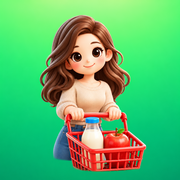
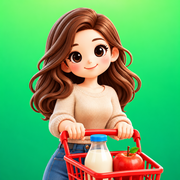
Versione 1.16: Icona definitiva (bordo inferiore corretto)
Claude-Session: https://claude.ai/code/session_01PsEHN9z92aK7YRahLFy1Zj

diff --git a/sw.js b/sw.js
@@ -1,6 +1,6 @@
 // Service worker: tiene l'app disponibile anche senza rete.
 // Per forzare un aggiornamento su tutti i telefoni, cambia il numero di VERSIONE.
-const VERSIONE = 'solo-du-cose-v16';
+const VERSIONE = 'solo-du-cose-v17';
 const FILE = ["./", "index.html", "manifest.webmanifest", "icons/icon-192.png", "icons/icon-512.png", "icons/apple-touch-icon.png", "img/accendino.webp", "img/acciughe.webp", "img/aceto-balsamico.webp", "img/aceto-di-mele.webp", "img/aceto.webp", "img/acetone.webp", "img/acqua-frizzante.webp", "img/acqua-ossigenata.webp", "img/acqua.webp", "img/aglio.webp", "img/agnello.webp", "img/albicocche.webp", "img/alcol-denaturato.webp", "img/ali-di-pollo.webp", "img/amaretti.webp", "img/amaro.webp", "img/amido-di-mais.webp", "img/ammorbidente.webp", "img/anacardi.webp", "img/ananas.webp", "img/anguria.webp", "img/anticalcare.webp", "img/antidolorifico.webp", "img/antiparassitario.webp", "img/antizanzare.webp", "img/aperitivo.webp", "img/arachidi.webp", "img/arancia.webp", "img/aranciata.webp", "img/arancini-surgelati.webp", "img/arrosto.webp", "img/asiago.webp", "img/asparagi.webp", "img/assorbenti.webp", "img/avocado.webp", "img/baccala.webp", "img/bagel.webp", "img/bagnoschiuma.webp", "img/baguette.webp", "img/balsamo.webp", "img/banana.webp", "img/barbabietole.webp", "img/barrette-di-cereali.webp", "img/barrette.webp", "img/basilico.webp", "img/bastoncini-di-pesce.webp", "img/batterie-a-bottone.webp", "img/batterie.webp", "img/besciamella.webp", "img/bevanda-sportiva.webp", "img/bibite.webp", "img/bicarbonato.webp", "img/bicchieri-di-plastica.webp", "img/bietole.webp", "img/biglietti-d-auguri.webp", "img/birra-analcolica.webp", "img/birra.webp", "img/biscotti-integrali.webp", "img/biscotti.webp", "img/bistecche.webp", "img/bocconcini.webp", "img/borse-della-spesa.webp", "img/braciole.webp", "img/branzino.webp", "img/bresaola.webp", "img/brie.webp", "img/brillantante.webp", "img/brioche.webp", "img/broccoli-surgelati.webp", "img/broccoli.webp", "img/brodo.webp", "img/bucatini.webp", "img/budino.webp", "img/burrata.webp", "img/burro-di-arachidi.webp", "img/burro.webp", "img/burrocacao.webp", "img/buste.webp", "img/cacao-amaro.webp", "img/cachi.webp", "img/caciotta.webp", "img/caffe-d-orzo.webp", "img/caffe-freddo.webp", "img/caffe-in-capsule.webp", "img/caffe-in-grani.webp", "img/caffe-macinato.webp", "img/caffe.webp", "img/calamari-surgelati.webp", "img/calamari.webp", "img/camomilla.webp", "img/cancelleria.webp", "img/candeggina.webp", "img/candele-profumate.webp", "img/candele.webp", "img/candeline.webp", "img/cannella.webp", "img/cannucce.webp", "img/cantucci.webp", "img/capperi.webp", "img/caramelle.webp", "img/carciofi.webp", "img/carciofini-sott-olio.webp", "img/carote-surgelate.webp", "img/carote.webp", "img/carta-alluminio.webp", "img/carta-da-cucina.webp", "img/carta-forno.webp", "img/carta-igienica.webp", "img/carta-regalo.webp", "img/castagne.webp", "img/cavolfiore-surgelato.webp", "img/cavolfiore.webp", "img/cavolo-cappuccio.webp", "img/cavolo-nero.webp", "img/ceci.webp", "img/cereali.webp", "img/cerotti.webp", "img/cetrioli.webp", "img/cetriolini.webp", "img/chinotto.webp", "img/ciabatta.webp", "img/ciambella.webp", "img/ciambelle.webp", "img/cibo-per-cani.webp", "img/cibo-per-conigli.webp", "img/cibo-per-criceti.webp", "img/cibo-per-gatti.webp", "img/cibo-per-pesci.webp", "img/cicoria.webp", "img/ciliegie.webp", "img/cioccolatini.webp", "img/cioccolato-al-latte.webp", "img/cioccolato-bianco.webp", "img/cioccolato-fondente.webp", "img/cioccolato.webp", "img/cipolla.webp", "img/clementine.webp", "img/cocco.webp", "img/cola.webp", "img/collutorio.webp", "img/colomba.webp", "img/concentrato-di-pomodoro.webp", "img/coniglio.webp", "img/contenitori.webp", "img/coppa.webp", "img/corn-flakes.webp", "img/cornetto.webp", "img/cosce-di-pollo.webp", "img/costine.webp", "img/cotolette-surgelate.webp", "img/cotolette.webp", "img/cotone.webp", "img/cotton-fioc.webp", "img/couscous.webp", "img/cozze.webp", "img/cracker.webp", "img/crema-corpo.webp", "img/crema-idratante.webp", "img/crema-mani.webp", "img/crema-viso.webp", "img/croccantini.webp", "img/crocchette-di-patate.webp", "img/crocchette-per-gatti.webp", "img/crostata.webp", "img/crostatine.webp", "img/curry.webp", "img/dentifricio.webp", "img/deodorante-per-ambiente.webp", "img/deodorante-roll-on.webp", "img/deodorante.webp", "img/detersivo-in-capsule.webp", "img/detersivo-pavimenti.webp", "img/detersivo-piatti.webp", "img/detersivo-vetri.webp", "img/detersivo.webp", "img/dischetti-struccanti.webp", "img/disincrostante.webp", "img/disinfettante.webp", "img/doccia.webp", "img/dopobarba.webp", "img/emmental.webp", "img/energy-drink.webp", "img/fagioli.webp", "img/fagiolini-surgelati.webp", "img/fagiolini.webp", "img/farfalle.webp", "img/farina.webp", "img/farmacia.webp", "img/farro.webp", "img/fave.webp", "img/fazzoletti.webp", "img/fegato.webp", "img/fesa-di-tacchino.webp", "img/feta.webp", "img/fette-biscottate.webp", "img/fettine-di-pollo.webp", "img/fettine-di-vitello.webp", "img/fiammiferi.webp", "img/fichi.webp", "img/filetto-di-manzo.webp", "img/filo-interdentale.webp", "img/filone.webp", "img/finocchi.webp", "img/fiocchi-d-avena.webp", "img/fiocchi-di-latte.webp", "img/fiori.webp", "img/focaccia-surgelata.webp", "img/focaccia.webp", "img/fontina.webp", "img/formaggini.webp", "img/formaggio-grattugiato.webp", "img/formaggio-spalmabile.webp", "img/formaggio.webp", "img/fragole.webp", "img/fritto-misto-surgelato.webp", "img/frollini.webp", "img/frutta-secca.webp", "img/frutti-di-bosco-surgelati.webp", "img/funghi-sott-olio.webp", "img/funghi.webp", "img/fusilli.webp", "img/gamberetti-surgelati.webp", "img/gamberi.webp", "img/garze.webp", "img/gassosa.webp", "img/gel-igienizzante.webp", "img/gel-per-capelli.webp", "img/gelatina.webp", "img/gelato.webp", "img/ghiaccio.webp", "img/ghiaccioli.webp", "img/giardiniera.webp", "img/ginger.webp", "img/gnocchi.webp", "img/gocce-di-cioccolato.webp", "img/gocciole.webp", "img/gomme-da-masticare.webp", "img/gorgonzola.webp", "img/graffette.webp", "img/grana.webp", "img/grappa.webp", "img/grissini.webp", "img/guanciale.webp", "img/guanti.webp", "img/hamburger-surgelati.webp", "img/hamburger.webp", "img/igienizzante.webp", "img/insalata-mista.webp", "img/insalata.webp", "img/insetticida.webp", "img/integratori.webp", "img/involtini.webp", "img/kefir.webp", "img/ketchup.webp", "img/kiwi.webp", "img/krapfen.webp", "img/lacca.webp", "img/lambrusco.webp", "img/lamette.webp", "img/lampadine.webp", "img/lamponi.webp", "img/lasagne.webp", "img/latte-detergente.webp", "img/latte-di-avena.webp", "img/latte-di-mandorla.webp", "img/latte-di-soia.webp", "img/latte-senza-lattosio.webp", "img/latte.webp", "img/lattuga.webp", "img/lavastoviglie-pastiglie.webp", "img/lecca-lecca.webp", "img/legumi-misti.webp", "img/lenticchie.webp", "img/lettiera.webp", "img/lievito-di-birra.webp", "img/lievito.webp", "img/lime.webp", "img/limoncello.webp", "img/limone.webp", "img/linguine.webp", "img/liquirizia.webp", "img/macinato.webp", "img/maiale.webp", "img/maionese.webp", "img/mais-in-scatola.webp", "img/mais-surgelato.webp", "img/mais.webp", "img/mandarini.webp", "img/mandorle.webp", "img/mangime-per-uccelli.webp", "img/mango.webp", "img/manzo.webp", "img/margarina.webp", "img/marmellata.webp", "img/mascara.webp", "img/mascarpone.webp", "img/maschera-per-capelli.webp", "img/matite.webp", "img/mazzancolle.webp", "img/mela.webp", "img/melanzana.webp", "img/mele-verdi.webp", "img/melograno.webp", "img/melone.webp", "img/menta.webp", "img/mentine.webp", "img/merendine.webp", "img/merluzzo-surgelato.webp", "img/merluzzo.webp", "img/miele.webp", "img/minestrone-surgelato.webp", "img/mirtilli.webp", "img/mocio.webp", "img/more.webp", "img/mortadella.webp", "img/mozzarella.webp", "img/mozzarelline.webp", "img/muesli.webp", "img/muffin.webp", "img/nastri.webp", "img/nastro-adesivo.webp", "img/nocciole.webp", "img/noccioline.webp", "img/noce-moscata.webp", "img/noci.webp", "img/nuggets.webp", "img/nutella.webp", "img/olio-extravergine.webp", "img/olio.webp", "img/olive.webp", "img/orata.webp", "img/orecchiette.webp", "img/origano.webp", "img/orzo.webp", "img/pacco.webp", "img/pagliette.webp", "img/paletta.webp", "img/palloncini.webp", "img/pan-carre.webp", "img/pancake.webp", "img/pancetta.webp", "img/pandoro.webp", "img/pane-casereccio.webp", "img/pane-in-cassetta.webp", "img/pane-integrale.webp", "img/pane-senza-glutine.webp", "img/pane.webp", "img/panettone.webp", "img/pangrattato.webp", "img/panini-per-hamburger.webp", "img/panini.webp", "img/panna.webp", "img/panni.webp", "img/pannolini.webp", "img/paprika.webp", "img/parmigiano.webp", "img/passata.webp", "img/pasta-all-uovo.webp", "img/pasta-brisee.webp", "img/pasta-sfoglia.webp", "img/pasta.webp", "img/pasticcini.webp", "img/patate-dolci.webp", "img/patate-surgelate.webp", "img/patate.webp", "img/patatine-surgelate.webp", "img/patatine.webp", "img/pecorino.webp", "img/pellicola.webp", "img/penne.webp", "img/pepe.webp", "img/peperoncino.webp", "img/peperone.webp", "img/pera.webp", "img/pesca.webp", "img/pesce-spada.webp", "img/pesce-surgelato.webp", "img/pesto.webp", "img/petto-di-pollo.webp", "img/piadine.webp", "img/piante.webp", "img/piatti-di-carta.webp", "img/pinoli.webp", "img/piselli-freschi.webp", "img/piselli-in-scatola.webp", "img/piselli-surgelati.webp", "img/pistacchi.webp", "img/pizza-base.webp", "img/pizza-surgelata.webp", "img/platessa.webp", "img/plumcake.webp", "img/polenta.webp", "img/pollo.webp", "img/polpa-di-pomodoro.webp", "img/polpette-surgelate.webp", "img/polpette.webp", "img/polpo.webp", "img/pomodori-datterini.webp", "img/pomodori-pelati.webp", "img/pomodori-secchi.webp", "img/pomodorini-ciliegino.webp", "img/pomodoro.webp", "img/pompelmo.webp", "img/popcorn.webp", "img/porchetta.webp", "img/posate-di-plastica.webp", "img/prezzemolo.webp", "img/prosciutto-cotto.webp", "img/prosciutto-crudo.webp", "img/prosecco.webp", "img/protezione-solare.webp", "img/provola.webp", "img/prugne.webp", "img/quaderni.webp", "img/radicchio.webp", "img/rasoi.webp", "img/ravanelli.webp", "img/ravioli-surgelati.webp", "img/ravioli.webp", "img/regalo.webp", "img/ricambi-mocio.webp", "img/ricotta.webp", "img/rigatoni.webp", "img/riso-basmati.webp", "img/riso.webp", "img/rosmarino.webp", "img/rossetto.webp", "img/rotoloni.webp", "img/rucola.webp", "img/sacchetti-freezer.webp", "img/sacchetti-igienici.webp", "img/sacchetti-umido.webp", "img/sacchi-della-spazzatura.webp", "img/salame.webp", "img/salatini.webp", "img/sale-per-lavastoviglie.webp", "img/sale.webp", "img/salmone-affumicato.webp", "img/salmone-surgelato.webp", "img/salmone.webp", "img/salsa-barbecue.webp", "img/salsa-di-soia.webp", "img/salsicce.webp", "img/salvia.webp", "img/salviette-neonato.webp", "img/salviette-umidificate.webp", "img/sapone-intimo.webp", "img/sapone-liquido.webp", "img/sapone.webp", "img/sardine-in-scatola.webp", "img/sardine.webp", "img/savoiardi.webp", "img/scalogno.webp", "img/scamorza.webp", "img/scampi.webp", "img/schiuma-da-barba.webp", "img/sciroppo.webp", "img/scopa.webp", "img/secchio.webp", "img/sedano.webp", "img/semola.webp", "img/senape.webp", "img/seppie.webp", "img/sgombro.webp", "img/sgrassatore.webp", "img/shampoo.webp", "img/smalto.webp", "img/snack-per-cani.webp", "img/snack-per-gatti.webp", "img/soffritto-surgelato.webp", "img/sogliola.webp", "img/sorbetto.webp", "img/sottaceti.webp", "img/sottilette.webp", "img/spazzola.webp", "img/spazzolino.webp", "img/speck.webp", "img/spezzatino.webp", "img/spinaci-surgelati.webp", "img/spinaci.webp", "img/spremuta.webp", "img/spugne.webp", "img/spumante.webp", "img/straccetti-di-pollo.webp", "img/stracchino.webp", "img/strofinacci.webp", "img/struccante.webp", "img/succo-d-arancia.webp", "img/succo-di-frutta.webp", "img/succo-di-limone.webp", "img/succo-di-pomodoro.webp", "img/sugo.webp", "img/surimi.webp", "img/tacchino.webp", "img/tagliata.webp", "img/tagliatelle.webp", "img/taleggio.webp", "img/tamponi.webp", "img/taralli.webp", "img/te-freddo.webp", "img/te.webp", "img/termometro.webp", "img/timo.webp", "img/tisane.webp", "img/tonica.webp", "img/tonno-fresco.webp", "img/tonno-in-scatola.webp", "img/torrone.webp", "img/torta.webp", "img/tortellini.webp", "img/tortillas.webp", "img/totani.webp", "img/tovaglioli.webp", "img/trota.webp", "img/umido-per-cani.webp", "img/umido-per-gatti.webp", "img/uova.webp", "img/uva.webp", "img/uvetta.webp", "img/vanillina.webp", "img/verdure-surgelate.webp", "img/vino-bianco.webp", "img/vino-frizzante.webp", "img/vino.webp", "img/vitamine.webp", "img/vitello.webp", "img/vongole.webp", "img/wafer.webp", "img/wurstel.webp", "img/yogurt-alla-frutta.webp", "img/yogurt-greco.webp", "img/yogurt.webp", "img/zenzero.webp", "img/zucca.webp", "img/zucchero-a-velo.webp", "img/zucchero-di-canna.webp", "img/zucchero.webp", "img/zucchina.webp"];
 
 self.addEventListener('install', e => {

diff --git a/index.html b/index.html
@@ -547,7 +547,7 @@ function renderMoreMain() {
     <div class="group">
       <div class="ln"><div>Cancella tutto<small>Elimina liste e carte da questo telefono</small></div><button class="btn danger" data-act="wipe">Cancella</button></div>
     </div>
-    <p style="text-align:center;color:var(--muted);font-size:13px">Solo du Cosette · versione 1.15<br>I dati restano solo su questo telefono.</p>`;
+    <p style="text-align:center;color:var(--muted);font-size:13px">Solo du Cosette · versione 1.16<br>I dati restano solo su questo telefono.</p>`;
 }
 
 function render() {

diff --git a/README.md b/README.md
@@ -29,7 +29,7 @@ App web (PWA) senza server e senza account: liste, carte fedeltà e impostazioni
 3. Dopo circa un minuto l'app è su `https://<utente>.github.io/Solo-du-Cosette/`.
 
 ## Aggiornare l'app
-Dopo ogni modifica a `index.html`, cambiare il numero di `VERSIONE` in `sw.js` (per esempio da `v16` a `v17`). Così il telefono scarica la versione nuova.
+Dopo ogni modifica a `index.html`, cambiare il numero di `VERSIONE` in `sw.js` (per esempio da `v17` a `v18`). Così il telefono scarica la versione nuova.
 
 ## File
 - `index.html`: tutta l'app (pagina, stile e codice)
